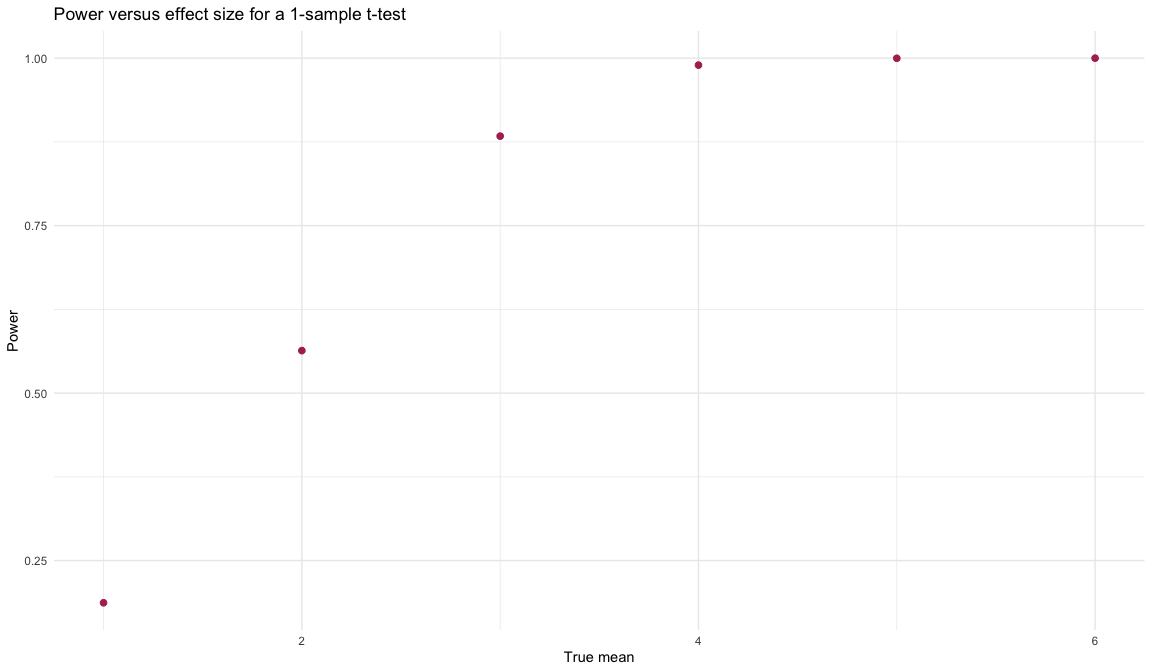
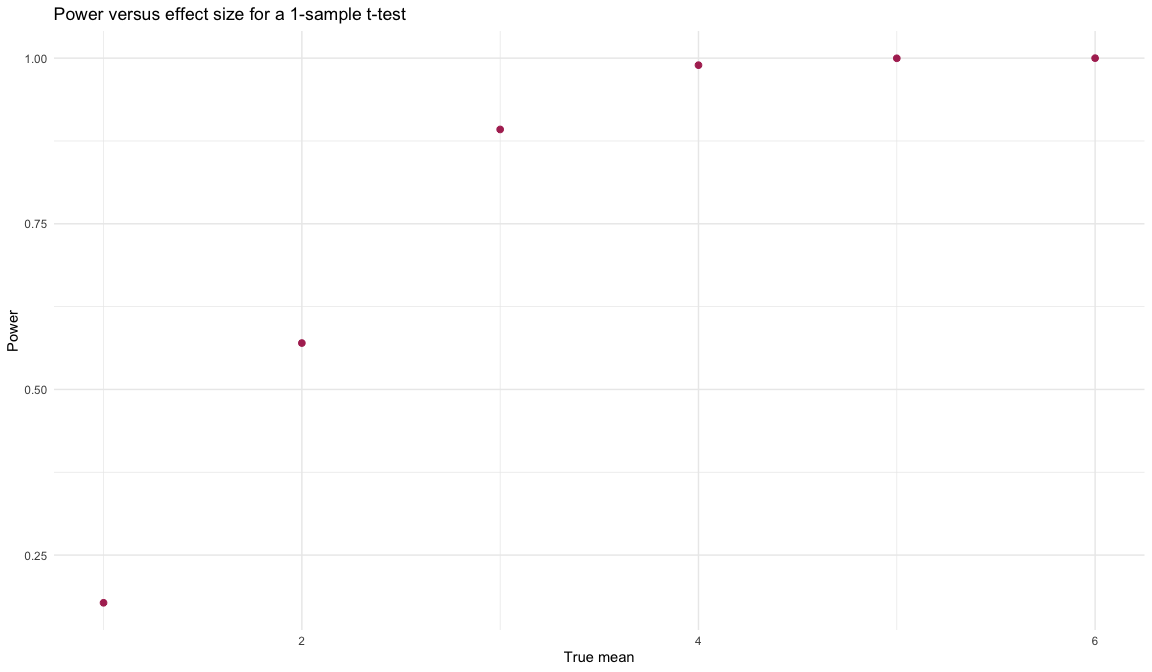
Fixing final plot in part 3 and data analysis descriptions

diff --git a/p8105_hw5_my2731.md b/p8105_hw5_my2731.md
@@ -143,7 +143,10 @@ homicide_summary
 
 Next, for the city of Baltimore, MD, we will use the `prop.test`
 function to estimate the proportion of homicides that are unsolved and
-its confidence interval.
+its confidence interval. To do so, we need to pull the number of
+unsolved and total homicides in Baltimore, and create objects `x` and
+`n` to input into the `prop.test` function. We will then tidy our table
+to get the estimated proportion and 95% CI.
 
 ``` r
 baltimore_df = homicide_summary %>% 
@@ -180,7 +183,10 @@ unsolved homicides in Baltimore is between 33.68% and 37.24%.
 While the code chunk above lets us compute the output for single city,
 we may want a more efficient way to get estimates for all cities. We
 will therefore use `map2` to apply the `prop.test` function to estimate
-the proportion of unsolved homicides in all cities in our dataset.
+the proportion of unsolved homicides in all cities in our dataset. We
+will then tidy the output of the proportion test, and select only the
+estimated proportion of unsolved homicides along with their 95%
+confidence interval.
 
 ``` r
 unsolved_homicides = homicide_summary %>% 
@@ -209,9 +215,7 @@ unsolved_homicides
     ## # … with 40 more rows
 
 The resulting `unsolved_homicides` dataframe contains 50 observations of
-6 variables, providing number of unsolved and total homicides, and the
-estimated proportion of unsolved homicides, along with their 95% CIs
-which come from mapping the `prop.test` function to all the cities.
+6 variables, providing number of unsolved and total homicides.
 
 Finally, we will create a plot of the estimated proportions of unsolved
 homicides in each city, along with their confidence intervals.
@@ -243,18 +247,18 @@ with the highest unsolved homicide rates include Charlotte and Richmond.
 
 ## Part 3: Simulating parameters that affect power
 
-A common question when designing experiments is whether a false null
-hypothesis will be rejected, or what the power of a study will be. Power
-depends on the sample size of our study, effect size, and error
-variance. In this problem, we will conduct a simulation to explore power
-in a one-sample t-test.
+A common question when designing experiments is how often a false null
+hypothesis will be rejected, or in other words, what the power of a
+study will be. Power depends on the sample size of our study, effect
+size, and error variance. In this problem, we will conduct a simulation
+to explore power in a one-sample t-test.
 
 ### Iterating a t-test computation
 
 First, we will write a function that generates a random sample from a
-normal distribution and outputs the results for a one-sample t-test of
-$H_0: \mu = 0$ for $\alpha = 0.05$ on the sample mean. We will fix the
-$n = 30$, $\sigma = 5$, and allow the $\mu$ to vary.
+normal distribution and outputs the results for a one-sample, two-sided
+t-test of $H_0: \mu = 0$ for $\alpha = 0.05$ on the sample mean. We will
+fix the $n = 30$, $\sigma = 5$, and allow the $\mu$ to vary.
 
 ``` r
 sim_t_test = function(true_mean) {
@@ -286,16 +290,16 @@ sim_df
     ## # A tibble: 5,000 × 4
     ##    true_mean iterate estimate p.value
     ##        <dbl>   <int>    <dbl>   <dbl>
-    ##  1         0       1    0.766   0.382
-    ##  2         0       2    0.139   0.864
-    ##  3         0       3    0.260   0.785
-    ##  4         0       4    0.346   0.730
-    ##  5         0       5   -0.134   0.899
-    ##  6         0       6    0.124   0.888
-    ##  7         0       7    0.355   0.711
-    ##  8         0       8   -0.542   0.593
-    ##  9         0       9   -0.624   0.407
-    ## 10         0      10    1.12    0.182
+    ##  1         0       1   -0.751  0.409 
+    ##  2         0       2    0.578  0.489 
+    ##  3         0       3   -1.29   0.231 
+    ##  4         0       4   -0.226  0.815 
+    ##  5         0       5   -0.494  0.531 
+    ##  6         0       6   -0.749  0.394 
+    ##  7         0       7    0.284  0.744 
+    ##  8         0       8    0.526  0.622 
+    ##  9         0       9   -1.65   0.0802
+    ## 10         0      10    1.28   0.227 
     ## # … with 4,990 more rows
 
 The resulting dataset has 5000 iterations of estimates for $\hat{\mu}$
@@ -326,29 +330,29 @@ power_df
 ```
 
     ## # A tibble: 30,000 × 5
-    ##    true_mean iterate estimate p.value reject_h0        
-    ##        <int>   <int>    <dbl>   <dbl> <chr>            
-    ##  1         1       1  -0.342   0.723  Null not rejected
-    ##  2         1       2   2.29    0.0170 Null rejected    
-    ##  3         1       3   1.11    0.348  Null not rejected
-    ##  4         1       4   0.526   0.460  Null not rejected
-    ##  5         1       5   1.58    0.0758 Null not rejected
-    ##  6         1       6   1.05    0.297  Null not rejected
-    ##  7         1       7  -0.0854  0.919  Null not rejected
-    ##  8         1       8   1.41    0.169  Null not rejected
-    ##  9         1       9   1.02    0.260  Null not rejected
-    ## 10         1      10   2.01    0.0154 Null rejected    
+    ##    true_mean iterate estimate  p.value reject_h0        
+    ##        <int>   <int>    <dbl>    <dbl> <chr>            
+    ##  1         1       1   1.70   0.0901   Null not rejected
+    ##  2         1       2   1.58   0.0664   Null not rejected
+    ##  3         1       3   3.41   0.000487 Null rejected    
+    ##  4         1       4   0.912  0.382    Null not rejected
+    ##  5         1       5   2.05   0.0793   Null not rejected
+    ##  6         1       6  -0.0382 0.969    Null not rejected
+    ##  7         1       7   1.84   0.0336   Null rejected    
+    ##  8         1       8   1.69   0.0509   Null not rejected
+    ##  9         1       9  -0.485  0.573    Null not rejected
+    ## 10         1      10   1.22   0.194    Null not rejected
     ## # … with 29,990 more rows
 
 The resulting dataset has 30000 iterations for true mean values ranging
 from 1 to 6, estimating the $\hat{\mu}$ generated from a normal
 distribution and p-values for one-sample t-test. We can see that the
 $\hat{\mu}$ estimates hover around the true mean value, and for
-$\hat{\mu}$ estimates that are far from $\mu$, the corresponding p-value
+$\hat{\mu}$ estimates that are far from $0$, the corresponding p-value
 is less than 0.05.
 
 Let’s plot the proportion of times the null was rejected, also known as
-the power of the test according to the true effect size $\mu$.
+the power of the test according to the true mean $\mu$.
 
 ``` r
 summary_power = power_df %>% 
@@ -370,39 +374,50 @@ summary_power %>%
 The above plot shows that as the distance between $\mu$ and $0$
 increases (i.e. the effect size), the power (probability of rejecting
 the null hypothesis given $H_\alpha: \mu ≠ 0$) increases. For the
-largest effect size of $\mu ≠ 6$, the power was 100%.
+largest effect size of $\mu = 6$, the power was 100%.
 
-Finally, we can plot the average estimates of $\hat{\mu}$ against the
-true $\mu$, for samples where the null hypothesis was rejected versus
-not rejected.
+Finally, we group by the true mean value to plot the average estimates
+of $\hat{\mu}$ against the true $\mu$, for samples where the null
+hypothesis was rejected versus not rejected.
 
 ``` r
-power_df %>% 
+mean_est_all = power_df %>% 
+  group_by(true_mean) %>% 
+  summarise(mean_est = mean(estimate))
+
+mean_est_nullrej = power_df %>% 
+  filter(reject_h0 == "Null rejected") %>% 
   group_by(true_mean, reject_h0) %>% 
-  summarise(mean_est = mean(estimate)) %>% 
-  mutate(reject_h0 = fct_relevel(reject_h0, c("Null rejected", "Null not rejected"))) %>% 
-  ggplot(aes(x = true_mean, y = mean_est, colour = reject_h0)) + 
-  geom_point(size = 2) + 
+  summarise(mean_est = mean(estimate))
+
+mean_est_all %>% 
+  ggplot(aes(x = true_mean, y = mean_est)) + 
+  geom_point(size = 2, colour = "turquoise") + 
+  geom_point(data = mean_est_nullrej, aes(color = reject_h0), size = 2) + 
   labs(
     x = "True mean",
     y = "Estimated mean",
-    title = "Estimated vs. true mean for samples where the null was rejected vs. not rejected", 
-    color = ""
+    title = "Estimated vs. true means in 5000 random normal samples of n = 30, sigma = 5", 
+    colour = ""
   )
 ```
 
 ![](p8105_hw5_my2731_files/figure-gfm/unnamed-chunk-6-1.png)<!-- -->
 
-Based on the plot, we can see that for samples where the null hypothesis
-was rejected, average $\hat{\mu}$ estimates across tests for which the
-null is rejected is much lower than true value of $\mu$. This is in
-accordance to what we would expect, as samples with an estimated mean
-closer to 0 will not reject the null, while samples which were closer to
-the true mean value will reject the the null hypothesis.
+Based on the above plot, we can see that for samples where the null
+hypothesis was rejected, average $\hat{\mu}$ estimates across tests for
+which the null is rejected is much higher than true value of $\mu$. This
+is in accordance to what we would expect, as samples with a larger true
+mean away from 0 will have a higher probability of rejecting the null
+hypothesis, while samples with a smaller true mean will have a lower
+probability of rejecting the null hypothesis.
 
-Moreover, as the effect size $\mu$ increased, the estimated means
-between samples that rejected/did not reject the null deviated further
-apart from each other. Notably, for $\mu = 6$, since all samples led to
-a rejection of the null hypothesis, there is no $\hat{\mu}$ value,
-indicating that the effect size was too large to sample a distribution
-which falsely failed to reject the null.
+Moreover, as the effect size of $\mu$ increased, the estimated means
+between all samples and samples that rejected the null converge. This
+means that as the true means got larger, the probability of pulling a
+sample with a sample mean around 0 became nearly 0%, leading to fewer
+samples that failed to reject the null hypothesis, and more samples that
+had means closer to the true mean. Notably, for $\mu = 6$, since all
+samples led to a rejection of the null hypothesis, there is no
+$\hat{\mu}$ value, indicating that the effect size was too large to
+sample a distribution which falsely failed to reject the null.
